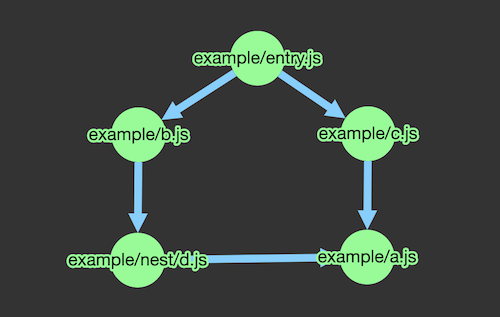
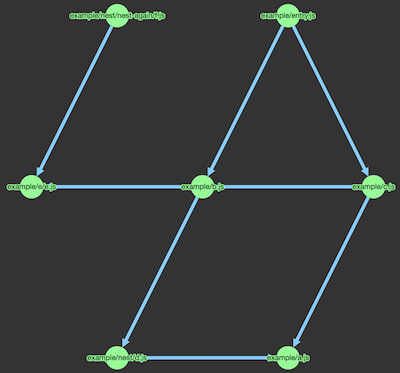
fix: get correct files from glob and parse nested hierarchies

Changed region(s): [[0.0, 0.0, 0.99, 0.9937], [0.15, 0.0, 0.42, 0.2839], [0.78, 0.1703, 0.9, 0.4259]]

diff --git a/lib/src/AstParser.js b/lib/src/AstParser.js
@@ -1,36 +1,35 @@
-const resolve = require('path').resolve
+const join = require('path').join
 // $FlowFixMe
 const esprima = require('esprima')
-const { stripCwd } = require('./common')
 
 class AstParser {
   parser: any
   sourceType: string
-  strip: Function
 
   constructor (parser: any = esprima,
-               sourceType: string = 'module',
-               strip: Function = stripCwd) {
+               sourceType: string = 'module') {
     this.parser = parser
     this.sourceType = 'module'
-    this.strip = strip
   }
 
   parse (filePath: string, text: string) {
     const ast: Array<any> = this.parser.parse(text, { sourceType: this.sourceType }).body
     return {
-      imports: extractImports(filePath, ast, this.strip),
+      imports: extractImports(filePath, ast),
       exports: extractExports(ast)
     }
   }
 }
 
-function extractImports (filePath: string, ast: Array<any>, strip: Function) {
+function extractImports (filePath: string, ast: Array<any>) {
   const imports = {}
   ast.filter(isImport)
     .forEach(importAst => {
-      const sourcePath = strip(resolvePath(filePath, importAst.source.value))
-      imports[sourcePath] = importAst.specifiers[0].local.name
+      const source = importAst.source.value
+      const sourcePath = resolvePath(filePath, source)
+      imports[sourcePath] = importAst.specifiers.length === 0
+        ? source.substr(source.indexOf('./') + 2)
+        : importAst.specifiers[0].local.name
     })
   return imports
 }
@@ -59,7 +58,7 @@ function extractExports (ast: Array<any>) {
 
 function resolvePath (filePath: string, source: string) {
   const stripFilePath = filePath.substr(0, filePath.lastIndexOf('/'))
-  return `${resolve(stripFilePath, source)}.js`
+  return `${join(stripFilePath, source)}.js`
 }
 
 function isImport (statement: any) {

diff --git a/lib/src/FileReader.js b/lib/src/FileReader.js
@@ -1,15 +1,14 @@
 const fs = require('fs')
 // $FlowFixMe
-const glob = require('glob-fs')
+const glob = require('glob')
 const AstParser = require('./AstParser')
-const { stripCwd } = require('./common')
 
 class FileReader {
   globber: any
   reader: any
   astParser: any
 
-  constructor (globber: any = glob({ gitignore: true }),
+  constructor (globber: any = glob,
                reader: any = fs,
                astParser: any = new AstParser()) {
     this.globber = globber
@@ -19,17 +18,16 @@ class FileReader {
 
   read (pattern: string) {
     return new Promise((resolve, reject) => {
-      this.globber.readdirPromise(pattern)
-        .then(filePaths => {
-          const projectModules = {}
-          filePaths.forEach(filePath => {
-            const text = this.reader.readFileSync(filePath, 'utf-8')
-            const modules = this.astParser.parse(filePath, text)
-            projectModules[stripCwd(filePath)] = modules
-          })
-          resolve(projectModules)
+      this.globber(pattern, (error, filePaths) => {
+        if (error) reject(error)
+        const projectModules = {}
+        filePaths.forEach(filePath => {
+          const text = this.reader.readFileSync(filePath, 'utf-8')
+          const modules = this.astParser.parse(filePath, text)
+          projectModules[filePath] = modules
         })
-        .catch(reject)
+        resolve(projectModules)
+      })
     })
   }
 }

diff --git a/client/src/GraphWs.js b/client/src/GraphWs.js
@@ -31,24 +31,28 @@ class GraphWs {
       console.log('disconnect')
     })
 
-    socket.on('modules', data => {
+    socket.on('modules', allModules => {
       console.log('render')
 
       const { nodes, edges } = this.config.elements
       nodes.length = 0
       edges.length = 0
 
-      Object.keys(data).forEach(id => {
-        nodes.push({ data: { id } })
+      Object.keys(allModules).forEach(filePath => {
+        nodes.push({
+          data: {
+            id: filePath
+          }
+        })
 
-        const modules = data[id]
+        const modules = allModules[filePath]
         const { imports, exports } = modules
 
-        Object.keys(imports).forEach(importId => {
+        Object.keys(imports).forEach(importFilePath => {
           edges.push({
             data: {
-              source: id,
-              target: importId,
+              source: filePath,
+              target: importFilePath,
               label: { imports, exports }
             }
           })

diff --git a/server/src/index.js b/server/src/index.js
@@ -19,8 +19,8 @@ app.get('/', (req, res) => {
   fs.createReadStream(path.join(__dirname, 'index.html')).pipe(res)
 })
 
-app.post('/modules', (req, res) => {
-  graphWs.socket.emit('modules', req.body)
+app.post('/modules', ({ body }, res) => {
+  graphWs.socket.emit('modules', body)
   res.status(200).send()
 })
 

diff --git a/example/c.js b/example/c.js
@@ -1,5 +1,6 @@
+import e from './e/e'
 import a from './a'
 
-const c = a + 3
+const c = a + e
 
 export default c

diff --git a/example/nest/nest-again/f.js b/example/nest/nest-again/f.js
@@ -1,0 +1,5 @@
+import e from './../../e/e'
+
+const f = e * 2
+
+export default f

diff --git a/example/entry.js b/example/entry.js
@@ -1,3 +1,4 @@
+import './style.css'
 import b from './b'
 import c from './c'
 

diff --git a/example/e/e.js b/example/e/e.js
@@ -1,0 +1,3 @@
+const e = 9
+
+export default e

diff --git a/example/style.css b/example/style.css
@@ -1,0 +1,3 @@
+body {
+  color: blue;
+}
